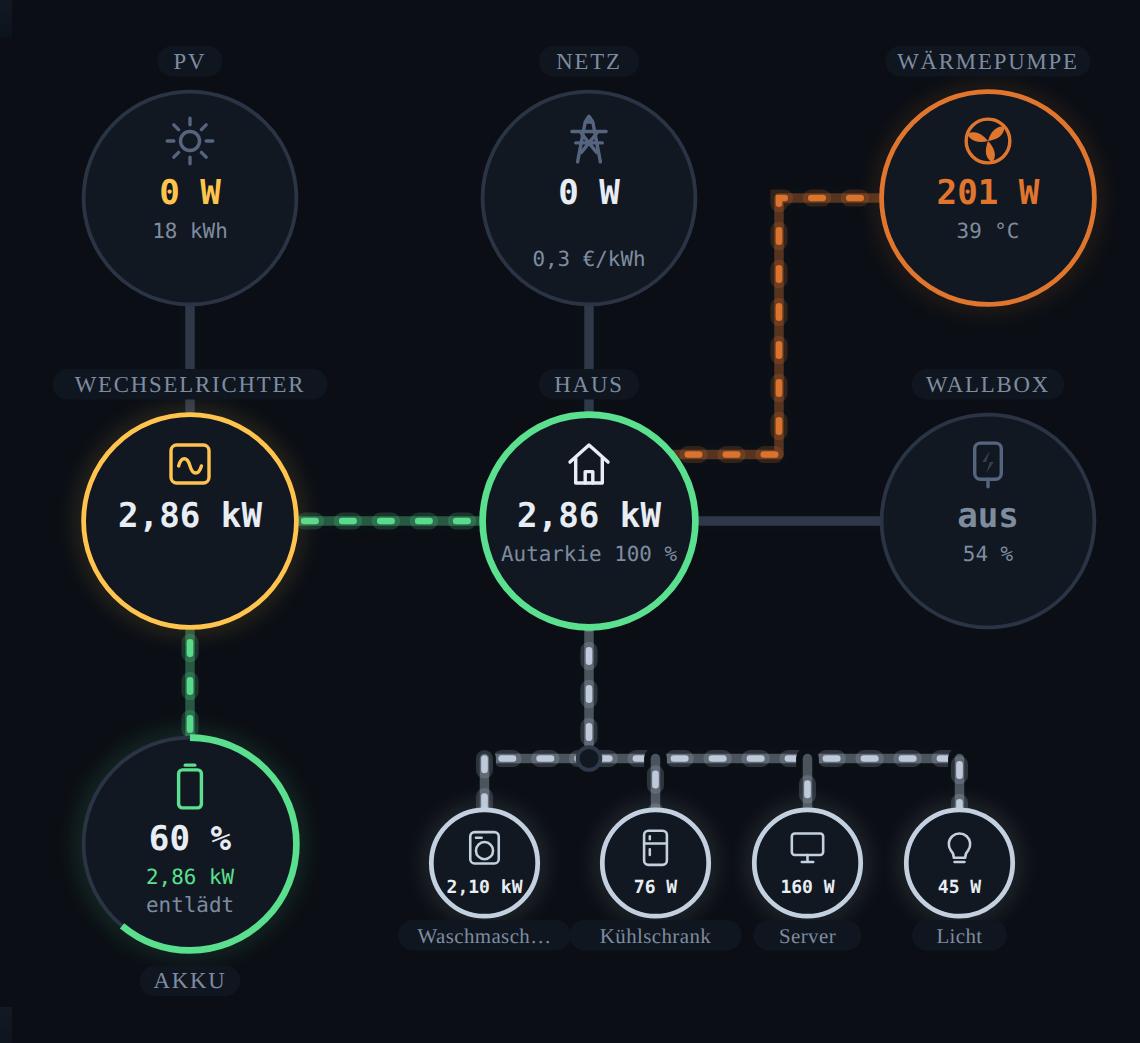
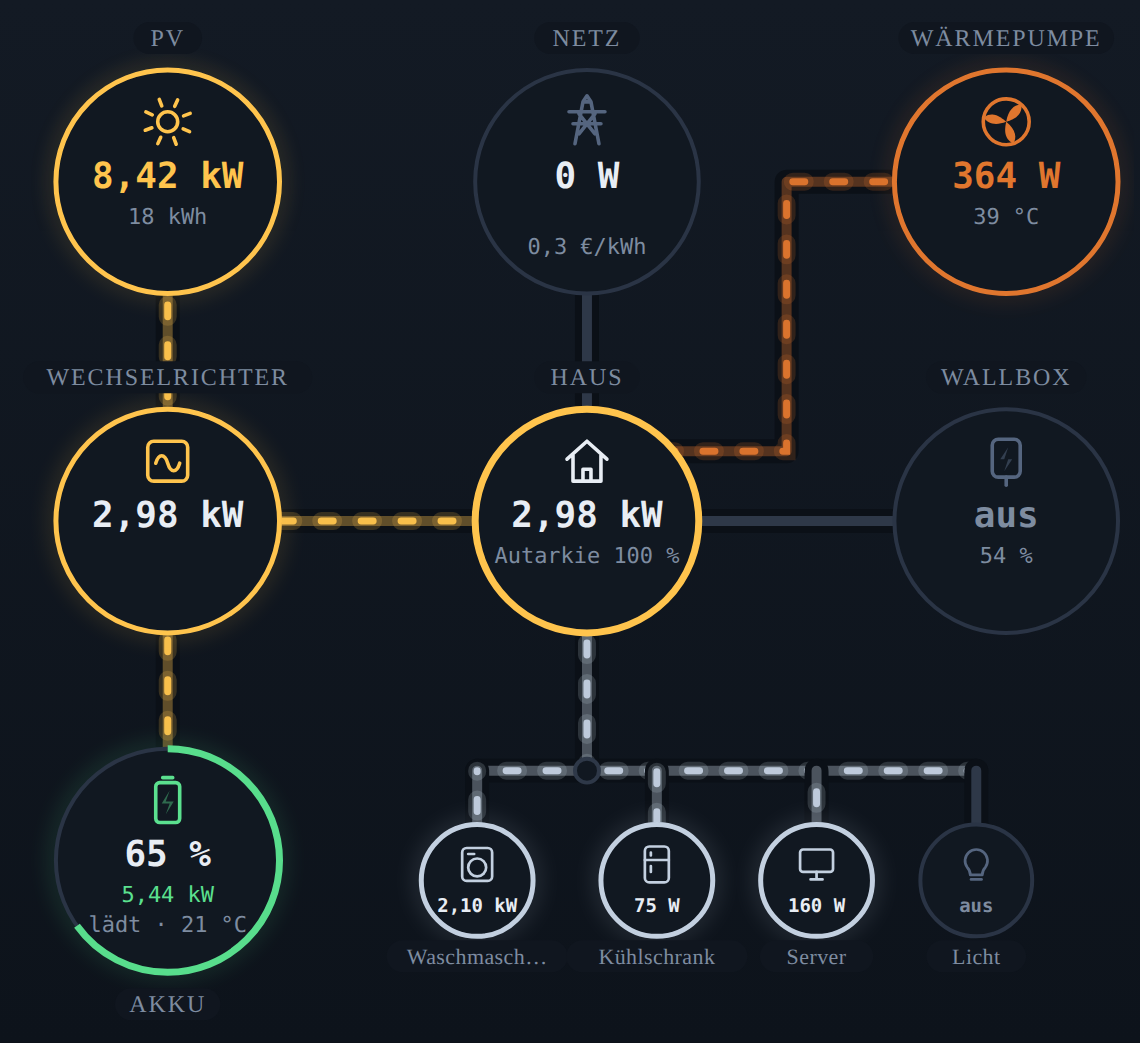
fix

diff --git a/dist/energy-flow-card-by-lutarym.js b/dist/energy-flow-card-by-lutarym.js
@@ -731,6 +731,7 @@ class LutarymEnergyFlowCard extends HTMLElement {
         <div class="lef-scene">${this._svg()}</div>
       </ha-card>`;
     this.shadowRoot.replaceChildren(root);
+    this._rahmenFuer = null;
     this._klicks();
     this._startAnimation();
   }
@@ -1137,6 +1138,37 @@ class LutarymEnergyFlowCard extends HTMLElement {
 
       // Waermepumpe, Wallbox und Verbraucher haben eigene Leitungen aus dem Haus.
     }
+
+    this._passeRahmen();
+  }
+
+  /**
+   * Schneidet die Zeichnung auf den tatsaechlich sichtbaren Inhalt zu.
+   * Ausgeblendete Baugruppen und leere Ecken kosten so keinen Platz.
+   * Gerechnet wird nur, wenn sich die Menge der sichtbaren Teile aendert.
+   */
+  _passeRahmen() {
+    const svg = this.shadowRoot && this.shadowRoot.querySelector("svg");
+    if (!svg) return;
+    const sichtbar = Array.from(svg.querySelectorAll("[display]"))
+      .map((el) => `${el.id}:${el.getAttribute("display")}`)
+      .join("|");
+    if (sichtbar === this._rahmenFuer) return;
+    let box;
+    try {
+      box = svg.getBBox();
+    } catch (err) {
+      return;
+    }
+    // Noch nicht gezeichnet, etwa in einem verborgenen Tab: spaeter erneut.
+    if (!box || box.width < 10 || box.height < 10) return;
+    // Etwas Luft fuer den Leuchtschein um aktive Kreise.
+    const luft = 8;
+    svg.setAttribute("viewBox", [
+      Math.floor(box.x - luft), Math.floor(box.y - luft),
+      Math.ceil(box.width + 2 * luft), Math.ceil(box.height + 2 * luft),
+    ].join(" "));
+    this._rahmenFuer = sichtbar;
   }
 
   /* -------------------- Animation -------------------- */
@@ -1200,7 +1232,7 @@ class LutarymEnergyFlowCard extends HTMLElement {
       .lef-root { height: 100%; }
       .lef {
         background: linear-gradient(180deg, #131A24 0%, #0D131B 100%);
-        color: #E8EDF4; padding: 6px 8px 8px; overflow: hidden; position: relative;
+        color: #E8EDF4; padding: 4px; overflow: hidden; position: relative;
         box-sizing: border-box; height: 100%;
         display: flex; flex-direction: column;
       }
